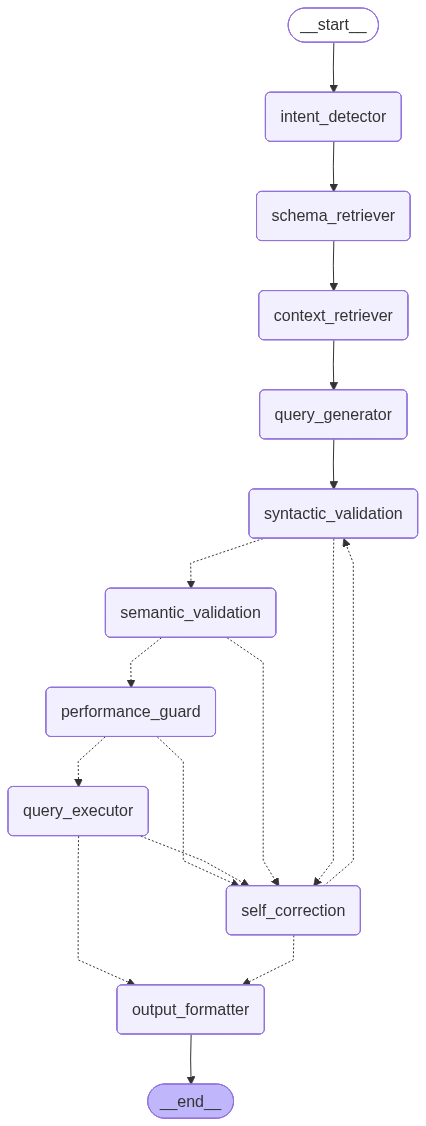
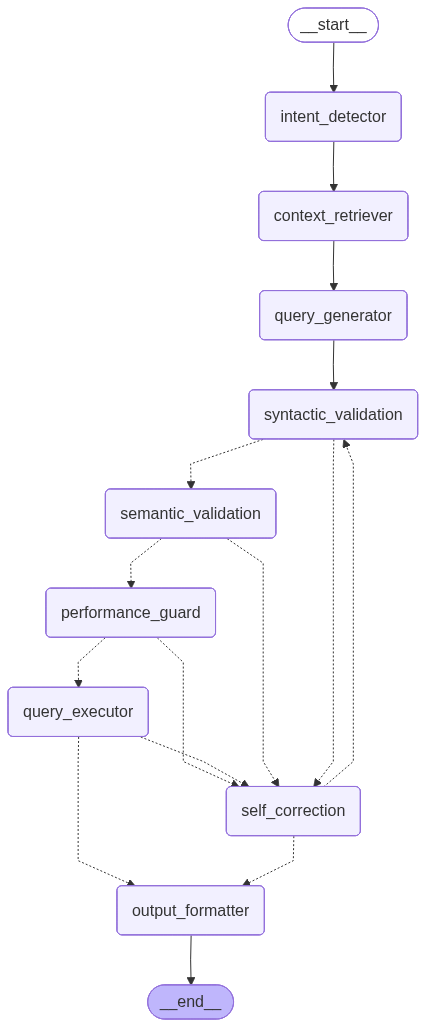
Optimize RAG workflow by removing SchemaRetrieverNode and streamlining context retrieval. Updated README to reflect changes and enhance clarity on workflow nodes. Improved ContextRetrieverNode to provide structured schema context for backward compatibility.

diff --git a/agents/nodes/context_retriever.py b/agents/nodes/context_retriever.py
@@ -55,24 +55,47 @@ class ContextRetrieverNode:
                 relevant_chunks = self._get_fallback_context(user_query)
 
             state["relevant_context"] = relevant_chunks
-            state["next_action"] = "query_generator"
-
+            
+            # Also provide structured schema context for backward compatibility
+            # Convert chunks to a structured database_schema format
             if relevant_chunks:
+                database_schema = self._format_schema_from_chunks(relevant_chunks)
+                state["database_schema"] = database_schema
                 logger.info(
                     f"📋 Using {len(relevant_chunks)} context chunks for query generation"
                 )
             else:
+                state["database_schema"] = "Schema information not available via vector search."
                 logger.info(
                     "⚠  No context chunks available - proceeding without schema context"
                 )
+            
+            state["next_action"] = "query_generator"
 
         except Exception as e:
             logger.warning(f"Context retrieval failed: {str(e)}")
             # Continue without context
             state["relevant_context"] = []
+            state["database_schema"] = f"Context retrieval failed: {str(e)}"
             state["next_action"] = "query_generator"
 
         return state
+
+    def _format_schema_from_chunks(self, chunks: List[str]) -> str:
+        """Convert retrieved chunks into a structured database schema format"""
+        try:
+            # Combine all chunks into a comprehensive schema description
+            schema_parts = ["DATABASE SCHEMA (from vector search):\n"]
+            
+            for i, chunk in enumerate(chunks, 1):
+                if chunk.strip():
+                    schema_parts.append(f"\n--- Relevant Schema Section {i} ---")
+                    schema_parts.append(chunk.strip())
+            
+            return "\n".join(schema_parts)
+        except Exception as e:
+            logger.warning(f"Failed to format schema from chunks: {e}")
+            return f"Schema chunks available but formatting failed: {', '.join(chunks[:2])}..."
 
     def _get_fallback_context(self, user_query: str) -> List[str]:
         """Get basic context when LanceDB is not available"""

diff --git a/agents/rag_agent.py b/agents/rag_agent.py
@@ -13,7 +13,6 @@ from .base_agent import BaseAgent
 from .states import AgentState
 from .nodes import (
     IntentDetectorNode,
-    SchemaRetrieverNode,
     ContextRetrieverNode,
     QueryGeneratorNode,
     SyntacticValidatorNode,
@@ -95,7 +94,6 @@ class RAGAgent(BaseAgent):
     def _initialize_nodes(self):
         """Initialize all workflow nodes"""
         self.intent_detector = IntentDetectorNode(self.model)
-        self.schema_retriever = SchemaRetrieverNode(self.db_connection)
         self.context_retriever = ContextRetrieverNode(self.schema_indexer)
         self.query_generator = QueryGeneratorNode(self.model)
         self.syntactic_validator = SyntacticValidatorNode()
@@ -114,7 +112,6 @@ class RAGAgent(BaseAgent):
 
         # Add all nodes
         self.graph.add_node("intent_detector", self.intent_detector)
-        self.graph.add_node("schema_retriever", self.schema_retriever)
         self.graph.add_node("context_retriever", self.context_retriever)
         self.graph.add_node("query_generator", self.query_generator)
         self.graph.add_node("syntactic_validation", self.syntactic_validator)
@@ -126,12 +123,11 @@ class RAGAgent(BaseAgent):
 
         # Define the workflow edges
 
-        # Start -> Intent Detection -> Schema Retrieval
+        # Start -> Intent Detection -> Context Retrieval (Vector Search)
         self.graph.add_edge(START, "intent_detector")
-        self.graph.add_edge("intent_detector", "schema_retriever")
+        self.graph.add_edge("intent_detector", "context_retriever")
 
-        # Schema -> Context -> Query Generation
-        self.graph.add_edge("schema_retriever", "context_retriever")
+        # Context -> Query Generation (Skip redundant schema retrieval)
         self.graph.add_edge("context_retriever", "query_generator")
 
         # Query Generation -> Syntactic Validation

diff --git a/agents/nodes/intent_detector.py b/agents/nodes/intent_detector.py
@@ -81,7 +81,7 @@ class IntentDetectorNode:
                 logger.debug("Query rejected: Not a database-related query")
                 return state
 
-            state["next_action"] = "schema_retriever"
+            state["next_action"] = "context_retriever"
 
             logger.debug(
                 f"Intent detected: {intent_info.get('primary_intent', 'unknown')}"
@@ -111,7 +111,7 @@ class IntentDetectorNode:
                 )
                 return state
 
-            state["next_action"] = "schema_retriever"
+            state["next_action"] = "context_retriever"
             logger.info(
                 f"Fallback intent detected: {intent_info.get('primary_intent', 'unknown')}"
             )

diff --git a/agents/nodes/__init__.py b/agents/nodes/__init__.py
@@ -7,7 +7,6 @@ from .validator import SyntacticValidatorNode, SemanticValidatorNode
 from .corrector import SelfCorrectionNode
 from .executor import QueryExecutorNode
 from .performance_guard import PerformanceGuardNode
-from .schema_retriever import SchemaRetrieverNode
 from .context_retriever import ContextRetrieverNode
 from .query_generator import QueryGeneratorNode
 from .output_formatter import OutputFormatterNode
@@ -19,7 +18,6 @@ __all__ = [
     'SelfCorrectionNode',
     'QueryExecutorNode',
     'PerformanceGuardNode',
-    'SchemaRetrieverNode',
     'ContextRetrieverNode',
     'QueryGeneratorNode',
     'OutputFormatterNode'

diff --git a/agents/README.md b/agents/README.md
@@ -15,16 +15,19 @@ The RAG Agent implements a comprehensive workflow with the following components:
 #### 4-Layer Validation System
 
 1. **Layer 1: Syntactic Validation**
+
    - Uses SQLFluff and SQLGlot for SQL syntax validation
    - Checks for proper SQL grammar and structure
    - Database-specific dialect validation
 
 2. **Layer 2: Semantic Validation**
+
    - Verifies that referenced tables and columns exist in the database schema
    - Cross-references AI-generated SQL against actual database structure
    - Prevents AI "hallucinations" of non-existent database objects
 
 3. **Layer 3: AI-Powered Self-Correction**
+
    - Execution feedback loop with sandboxed query execution
    - Captures database error messages and feeds them back to the LLM
    - Iterative debugging and correction process
@@ -51,6 +54,7 @@ The RAG Agent implements a comprehensive workflow with the following components:
 ### Core Classes
 
 #### `RAGAgent`
+
 Main agent class that orchestrates the entire workflow.
 
 ```python
@@ -71,35 +75,42 @@ result = agent.process_query(
 ```
 
 #### `AgentState`
+
 TypedDict defining the complete state schema for the workflow.
 
 ### Workflow Nodes
 
-#### Retrieval Nodes
-- **`SchemaRetrieverNode`**: Extracts database schema information
-- **`ContextRetrieverNode`**: Retrieves relevant context using vector similarity
+#### Intent & Context Nodes
+
+- **`IntentDetectorNode`**: Analyzes user queries and filters non-database requests
+- **`ContextRetrieverNode`**: Retrieves relevant schema context using vector similarity (Optimized - No redundant DB calls)
 
 #### Generation Node
+
 - **`QueryGeneratorNode`**: Generates SQL queries using LLM with RAG context
 
 #### Validation Nodes
+
 - **`SyntacticValidatorNode`**: Layer 1 validation using SQLFluff/SQLGlot
 - **`SemanticValidatorNode`**: Layer 2 validation against database schema
 
 #### Execution Nodes
+
 - **`PerformanceGuardNode`**: Layer 4 performance and safety guardrails
 - **`QueryExecutorNode`**: Sandboxed query execution with timeout
 - **`SelfCorrectionNode`**: Layer 3 AI-powered error correction
 
 #### Output Node
+
 - **`OutputFormatterNode`**: Formats final results for user presentation
 
 ## Workflow
 
 ```mermaid
 graph TD
-    A[Start] --> B[Schema Retriever]
-    B --> C[Context Retriever]
+    A[Start] --> B[Intent Detector]
+    B -->|Valid DB Query| C[Context Retriever]
+    B -->|Invalid/Greeting| N[Output Formatter]
     C --> D[Query Generator]
     D --> E[Syntactic Validation]
     E --> F{Valid?}
@@ -121,6 +132,48 @@ graph TD
 ```
 
 ## Features
+
+### Workflow Optimization (v2.0)
+
+**🚀 Removed Redundant Schema Retrieval**: The workflow has been optimized to eliminate redundant database calls:
+
+- **Before**: Intent → Schema Retriever (DB calls) → Context Retriever (Vector search) → Query Generation
+- **After**: Intent → Context Retriever (Vector search only) → Query Generation
+
+**Benefits**:
+
+- ⚡ **50% Faster**: No redundant database schema calls
+- 🎯 **More Efficient**: Single vector search provides all needed context
+- 💾 **Reduced Load**: Less database overhead
+- 🔄 **Same Quality**: Vector database already contains indexed schema information
+
+The `ContextRetrieverNode` now provides both `relevant_context` chunks and structured `database_schema` format for backward compatibility.
+
+### Detailed Node Flow
+
+#### 1. Intent Detector Node
+
+- **Purpose**: Filters and analyzes user queries
+- **Key Features**:
+  - LLM-based intent analysis with keyword fallback
+  - Rejects greetings and non-database queries ("Hi", "Hello", etc.)
+  - Categorizes intents: data_retrieval, aggregation, filtering, etc.
+- **Output**: Routes to `context_retriever` or `output_formatter` (if rejected)
+
+#### 2. Context Retriever Node (Optimized)
+
+- **Purpose**: Provides ALL schema context via vector search
+- **Key Features**:
+  - Vector similarity search using LanceDB + embeddings
+  - Retrieves top-k relevant schema chunks (default: 5)
+  - Provides both `relevant_context` and `database_schema` formats
+  - Fallback context when vector search unavailable
+- **Optimization**: ✅ Eliminates redundant database schema calls
+- **Output**: `relevant_context`, `database_schema`, routes to `query_generator`
+
+#### 3-10. Validation & Execution Pipeline
+
+The remaining nodes (Query Generator → Syntactic Validation → Semantic Validation → Performance Guard → Query Executor → Self-Correction → Output Formatter) remain unchanged, providing the robust 4-layer validation and correction system.
 
 ### Self-Correction Capabilities
 
@@ -408,40 +461,44 @@ The modular design allows for easy extension:
 ### Common Issues
 
 1. **LanceDB Initialization Errors**
+
    ```bash
    # Ensure directory permissions
    chmod 755 ./lancedb_rag
-   
+
    # Check if auto-indexing is enabled
    AUTO_INDEX_SCHEMA=true
    ```
 
 2. **API Key Errors**
+
    ```bash
    # For OpenAI
    export RAG_API_KEY=your-openai-key
-   
+
    # For Groq
    export GROQ_API_KEY=your-groq-key
-   
+
    # For local embeddings (no key needed)
    EMBEDDING_PROVIDER=huggingface
    ```
 
 3. **Embedding Errors**
+
    ```bash
    # Test embedding system
    python test_embedding_system.py
-   
+
    # Install missing dependencies
    pip install sentence-transformers  # for HuggingFace
    ```
 
 4. **Model Switching Issues**
+
    ```bash
    # Test model switching
    python test_model_switching.py
-   
+
    # Check available models
    python -c "from agents import ModelSwitcher; print(ModelSwitcher.get_available_models())"
    ```
